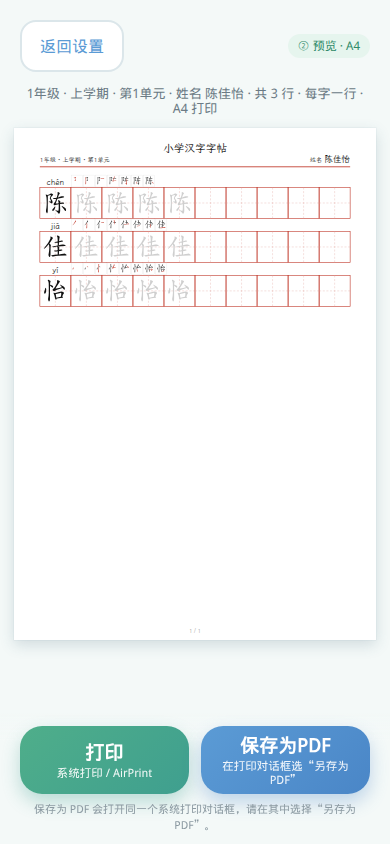
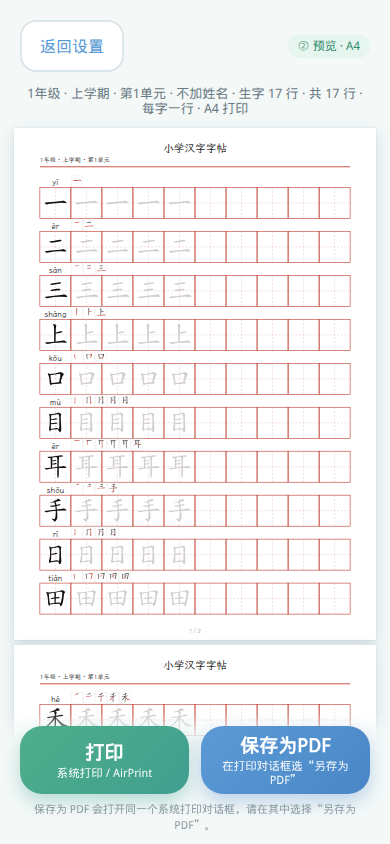
Print the selected unit after the optional name rows.
Name-only output dropped the unit copybook. Name practice rows now come first, then every character in the chosen unit, and 不加姓名 prints the unit alone.

diff --git a/app/app.js b/app/app.js
@@ -31,9 +31,10 @@ async function init() {
     if (!b) return;
     setTerm(b.dataset.v);
     fillUnits($('unit').value);
+    renderPreview();
     persist();
   };
-  $('unit').onchange = persist;
+  $('unit').onchange = () => { renderPreview(); persist(); };
   $('name').onchange = () => { syncNameStyle(); renderPreview(); persist(); };
   $('go').onclick = confirmGenerate;
   $('back').onclick = () => show('p-set');
@@ -61,6 +62,7 @@ function buildGrades() {
     b.onclick = () => {
       setGrade(x.grade);
       fillUnits($('unit').value);
+      renderPreview();
       persist();
     };
     gEl.appendChild(b);
@@ -101,13 +103,20 @@ function buildNames() {
   CONFIG.names.forEach((name) => n.add(new Option(name, name)));
 }
 function syncNameStyle() {
-  const n = $('name');
-  n.classList.toggle('pending', !n.value);
-  n.classList.remove('hl');
+  $('name').classList.remove('hl');
 }
 function currentName() { return $('name').value; }
+function currentUnit() {
+  const term = curTerm();
+  return term.units.find((u) => u.no == $('unit').value) || term.units[0];
+}
 function nameRows(name) {
-  return [...name].map((c) => ({ c, py: CONFIG.namePinyin[c] || '' }));
+  return [...name].map((c) => ({ c, py: CONFIG.namePinyin[c] || '', kind: 'name' }));
+}
+function lessonRows() {
+  const list = [];
+  currentUnit().lessons.forEach((l) => l.chars.forEach((c) => list.push({ c: c.c, py: c.py || '', kind: 'lesson' })));
+  return list;
 }
 function metaLine() {
   const term = curTerm();
@@ -124,43 +133,44 @@ function persist() {
   }));
 }
 
-function cells(ch, n) {
+function cells(ch, py, n) {
   let h = '';
   for (let i = 0; i < n; i++) {
     const cls = i === 0 ? 'std' : (i <= 2 ? 'ghost' : '');
     const g = i <= 2 ? `<span class="g">${ch}</span>` : '';
-    h += `<div class="cell"><div class="py">${i === 0 ? (CONFIG.namePinyin[ch] || '') : ''}</div><div class="tz ${cls}">${g}</div></div>`;
+    h += `<div class="cell"><div class="py">${i === 0 ? py : ''}</div><div class="tz ${cls}">${g}</div></div>`;
   }
   return h;
 }
 function renderPreview() {
   const pv = $('pv');
   const name = currentName();
-  if (!name) {
-    pv.innerHTML = '<div class="pv-h">练习行预览</div><div class="pv-empty">选择姓名后，这里会按姓名里的每个字<br>生成一行练习格</div>';
-    return;
-  }
-  const rows = nameRows(name);
-  const py = rows.map((r) => r.py).join(' / ');
-  pv.innerHTML = `<div class="pv-h"><span>将按字生成练习行 · 共 ${rows.length} 行</span><span class="t">${[...name].join('、')}（${py}）</span></div>`
-    + `<div class="rows">` + rows.map((r) => `<div class="row" style="--n:5">${cells(r.c, 5)}</div>`).join('') + `</div>`
+  const lessons = lessonRows();
+  const head = name ? nameRows(name) : [];
+  const title = name
+    ? `姓名 ${head.length} 行在前 · 随后本单元生字 ${lessons.length} 行`
+    : `不加姓名 · 只生成本单元生字 ${lessons.length} 行`;
+  const sample = head.length ? head : lessons.slice(0, 2);
+  const rows = sample.length
+    ? `<div class="rows">` + sample.map((r) => `<div class="row" style="--n:5">${cells(r.c, r.py, 5)}</div>`).join('') + `</div>`
+    : '<div class="pv-empty">这个单元没有写字表生字</div>';
+  const py = head.map((r) => r.py).filter(Boolean).join(' / ');
+  pv.innerHTML = `<div class="pv-h"><span>${title}</span>${py ? `<span class="t">${py}</span>` : ''}</div>`
+    + rows
     + '<div class="pv-foot">每字一行：拼音 + 标准字 + 浅灰描红 + 空白田字格</div>';
 }
 
 function show(id) {
   document.querySelectorAll('.view').forEach((p) => p.classList.toggle('active', p.id === id));
   document.body.dataset.view = id === 'p-res' ? 'result' : 'settings';
-  if (id !== 'p-res') delete document.body.dataset.rows;
+  if (id !== 'p-res') {
+    delete document.body.dataset.rows;
+    delete document.body.dataset.nameRows;
+    delete document.body.dataset.lessonRows;
+  }
   window.scrollTo(0, 0);
 }
 function confirmGenerate() {
-  if (!currentName()) {
-    const n = $('name');
-    n.classList.add('hl');
-    n.focus();
-    setTimeout(() => n.classList.remove('hl'), 900);
-    return;
-  }
   renderSheet();
   show('p-res');
   fit();
@@ -200,21 +210,24 @@ function buildPage(rows, meta, pageNo, pageCount, o) {
   const x0 = (A4.w - gridW) / 2;
   const page = document.createElement('div');
   page.className = 'sheet';
+  page.dataset.page = String(pageNo);
   const svg = el('svg', { class: 'pg', viewBox: `0 0 ${A4.w} ${A4.h}`, xmlns: SVGNS }, page);
   const red = '#c0392b', faint = '#e3a59d';
   const top = CONFIG.pageMargin.top;
   const title = el('text', { x: A4.w / 2, y: top + 5, 'font-size': 6.2, 'text-anchor': 'middle', fill: '#111', class: 'hdrtext' }, svg);
   title.textContent = '小学汉字字帖';
   el('text', { x: x0, y: top + 11, 'font-size': 3.6, fill: '#333' }, svg).textContent = meta;
-  const right = el('text', { x: x0 + gridW, y: top + 11, 'font-size': 3.6, fill: '#333', 'text-anchor': 'end' }, svg);
-  right.append('姓名 ');
-  const nm = el('tspan', { 'font-size': 5, fill: '#111' }, right);
-  nm.textContent = o.name;
+  if (o.name) {
+    const right = el('text', { x: x0 + gridW, y: top + 11, 'font-size': 3.6, fill: '#333', 'text-anchor': 'end' }, svg);
+    right.append('姓名 ');
+    const nm = el('tspan', { 'font-size': 5, fill: '#111' }, right);
+    nm.textContent = o.name;
+  }
   el('line', { x1: x0, x2: x0 + gridW, y1: top + 13.5, y2: top + 13.5, stroke: red, 'stroke-width': 0.5 }, svg);
   const rowH = BAND + cell;
   let y = top + CONFIG.headerHeightMm;
   rows.forEach((it) => {
-    const row = el('g', { 'data-row': it.c, 'data-py': it.py }, svg);
+    const row = el('g', { 'data-row': it.c, 'data-py': it.py, 'data-kind': it.kind || 'lesson' }, svg);
     const py = el('text', { x: x0 + cell / 2, y: y + BAND - 1.4, 'font-size': 4.6, 'text-anchor': 'middle', fill: '#222' }, row);
     py.textContent = it.py;
     const strokes = STROKES[it.c] || [];
@@ -253,7 +266,9 @@ function rowsPerPage(cell) {
 
 function renderSheet() {
   const name = currentName();
-  const list = nameRows(name);
+  const head = name ? nameRows(name) : [];
+  const lessons = lessonRows();
+  const list = head.concat(lessons);
   list.forEach((c) => defChar(c.c));
   const cell = CONFIG.gridMm;
   const trace = CONFIG.traceCount;
@@ -268,11 +283,15 @@ function renderSheet() {
   }
   const missing = list.filter((c) => !STROKES[c.c]).map((c) => c.c);
   const missPy = list.filter((c) => !c.py).map((c) => c.c);
-  let tip = `${meta} · 姓名 ${name} · 共 ${list.length} 行 · 每字一行 · A4 打印`;
-  if (missing.length) tip += `；缺笔顺 ${missing.join('')}`;
-  if (missPy.length) tip += `；缺拼音 ${missPy.join('')}`;
+  const who = name ? `姓名 ${name} ${head.length} 行 + 生字 ${lessons.length} 行` : `不加姓名 · 生字 ${lessons.length} 行`;
+  let tip = `${meta} · ${who} · 共 ${list.length} 行 · 每字一行 · A4 打印`;
+  if (!list.length) tip = `${meta} · 本单元没有写字表生字`;
+  if (missing.length) tip += `；缺笔顺 ${[...new Set(missing)].join('')}`;
+  if (missPy.length) tip += `；缺拼音 ${[...new Set(missPy)].join('')}`;
   $('rtip').textContent = tip;
   document.body.dataset.rows = String(list.length);
+  document.body.dataset.nameRows = String(head.length);
+  document.body.dataset.lessonRows = String(lessons.length);
   persist();
   fit();
 }

diff --git a/app/index.html b/app/index.html
@@ -38,9 +38,9 @@
       </div>
     </div>
     <div class="field name-field">
-      <label for="name">姓名 <span class="opt">（将显示在页眉，并按字生成练习行）</span></label>
-      <select id="name" class="pending">
-        <option value="">请选择姓名</option>
+      <label for="name">姓名 <span class="opt">（默认不加；选中后姓名练习行放在本单元生字前面）</span></label>
+      <select id="name">
+        <option value="">不加姓名</option>
       </select>
     </div>
     <div class="pv" id="pv"></div>

diff --git a/app/config.js b/app/config.js
@@ -1,6 +1,7 @@
 // 易改配置项。姓名和拼音随本文件被 Service Worker 预缓存，离线可用。
 export const CONFIG = {
-  // 页眉姓名下拉。选中后按姓名里的每个字各生成一行，不再固定印「陈 一 佳 怡」。
+  // 姓名下拉，另有默认项「不加姓名」（只生成本单元生字）。
+  // 选中后按姓名每个字各生成一行，放在生字前面，并印在页眉。
   names: ['陈一', '陈佳怡'],
   namePinyin: {
     陈: 'chén',

diff --git a/app/sw.js b/app/sw.js
@@ -1,5 +1,5 @@
 // Auto-generated by tools/build.py — do not edit app/sw.js by hand.
-const VERSION = 'b2cbfb16d3';
+const VERSION = '71f263f14b';
 const CACHE = 'zitie-' + VERSION;
 const PRECACHE = [
  "./",

diff --git a/tools/test_offline.py b/tools/test_offline.py
@@ -10,6 +10,10 @@ if link.is_symlink() or link.exists():
 link.symlink_to(ROOT / 'app')
 srv = subprocess.Popen([sys.executable, '-m', 'http.server', '8766', '-d', str(preview)], stdout=subprocess.DEVNULL, stderr=subprocess.DEVNULL)
 time.sleep(1)
+
+def rows(page):
+    return page.eval_on_selector_all('[data-row]', "els => els.map(e => e.getAttribute('data-kind') + ':' + e.getAttribute('data-row') + e.getAttribute('data-py'))")
+
 try:
     with sync_playwright() as p:
         chrome = Path('/usr/local/bin/google-chrome')
@@ -18,10 +22,16 @@ try:
         pg = ctx.new_page()
         pg.goto('http://127.0.0.1:8766/zitie/')
         pg.wait_for_selector('body[data-ready="1"]')
-        pg.select_option('#name', '陈一')
+        assert pg.input_value('#name') == ''
+        pg.select_option('#unit', '1')
+        pg.select_option('#name', '陈佳怡')
         pg.click('#go')
-        pg.wait_for_selector('body[data-view="result"]')
-        assert pg.get_attribute('body', 'data-rows') == '2', pg.get_attribute('body', 'data-rows')
+        pg.wait_for_selector('body[data-name-rows="3"]')
+        got = rows(pg)
+        assert got[:3] == ['name:陈chén', 'name:佳jiā', 'name:怡yí'], got[:5]
+        assert pg.get_attribute('body', 'data-lesson-rows') == '17', pg.get_attribute('body', 'data-lesson-rows')
+        assert got[3] == 'lesson:一yī', got[3]
+        assert len(got) == 20
         pg.evaluate("navigator.serviceWorker.ready.then(()=>1)")
         time.sleep(2)
         print('sw controller:', pg.evaluate("!!navigator.serviceWorker.controller"), 'cache keys:', pg.evaluate("caches.keys()"))
@@ -32,9 +42,12 @@ try:
         pg2 = ctx.new_page()
         pg2.goto('http://127.0.0.1:8766/zitie/')
         pg2.wait_for_selector('body[data-ready="1"]', timeout=10000)
-        pg2.select_option('#name', '陈佳怡')
+        pg2.select_option('#name', '')
+        pg2.select_option('#unit', '1')
         pg2.click('#go')
-        pg2.wait_for_selector('body[data-rows="3"]')
+        pg2.wait_for_selector('body[data-name-rows="0"]')
+        assert pg2.get_attribute('body', 'data-lesson-rows') == '17'
+        assert rows(pg2)[0] == 'lesson:一yī'
         print('OFFLINE OK:', pg2.inner_text('#rtip'))
         pg2.screenshot(path=str(ROOT / 'samples/mobile-offline.png'))
         b.close()

diff --git a/README.md b/README.md
@@ -25,7 +25,7 @@ python3 -m http.server -d app
 
 设置页选择年级、学期、单元和姓名，点底部「确认生成」进入结果页；结果页可「返回设置」。年级是 1–6 的大按钮，学期是「上学期 / 下学期」，单元按当前册列出（一般是第 1–8 单元）。
 
-姓名在 `app/config.js` 的 `names`，目前是「陈一」和「陈佳怡」。选中后按姓名里的每个字各生成一行，沿用原来的行版式：拼音、笔顺分步、1 个标准字、4 个描红格、其余空白田字格。字帖页眉印年级、学期、单元和所选姓名，不再固定印「陈 一 佳 怡」。
+姓名下拉默认是「不加姓名」，这时只生成所选年级、学期、单元的全部写字表生字，一字一行。选「陈一」或「陈佳怡」时，先按姓名每个字各生成一行，紧接着才是该单元的全部生字；姓名印在每页页眉。行版式仍是拼音、笔顺分步、1 个标准字、4 个描红格、其余空白田字格。姓名选项在 `app/config.js` 的 `names`。
 
 结果页「打印」打开系统打印（含 AirPrint）。「保存为PDF」打开同一个打印对话框，在其中选择“另存为 PDF”。
 
